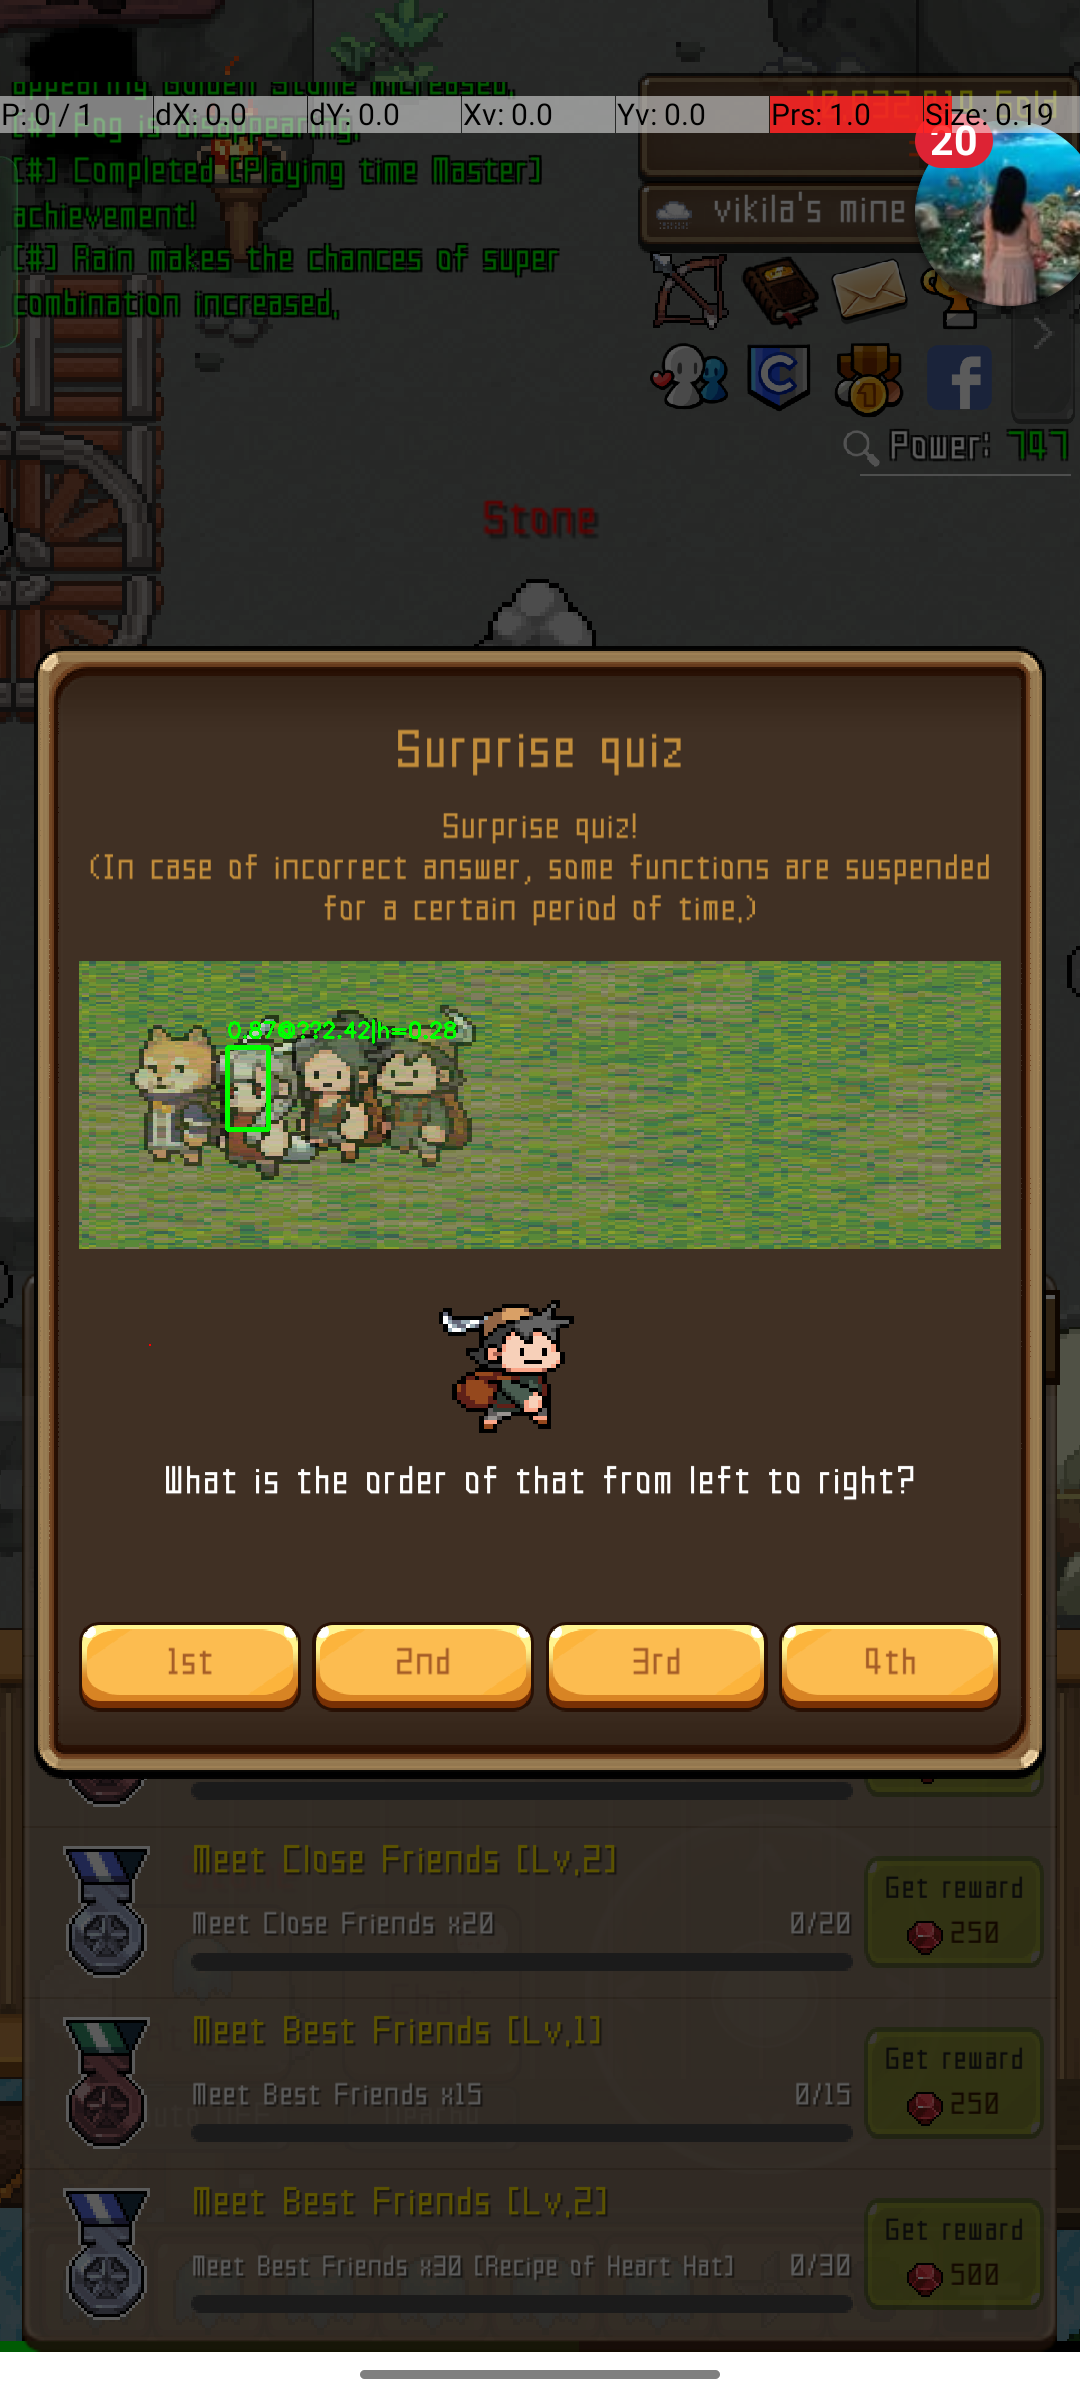
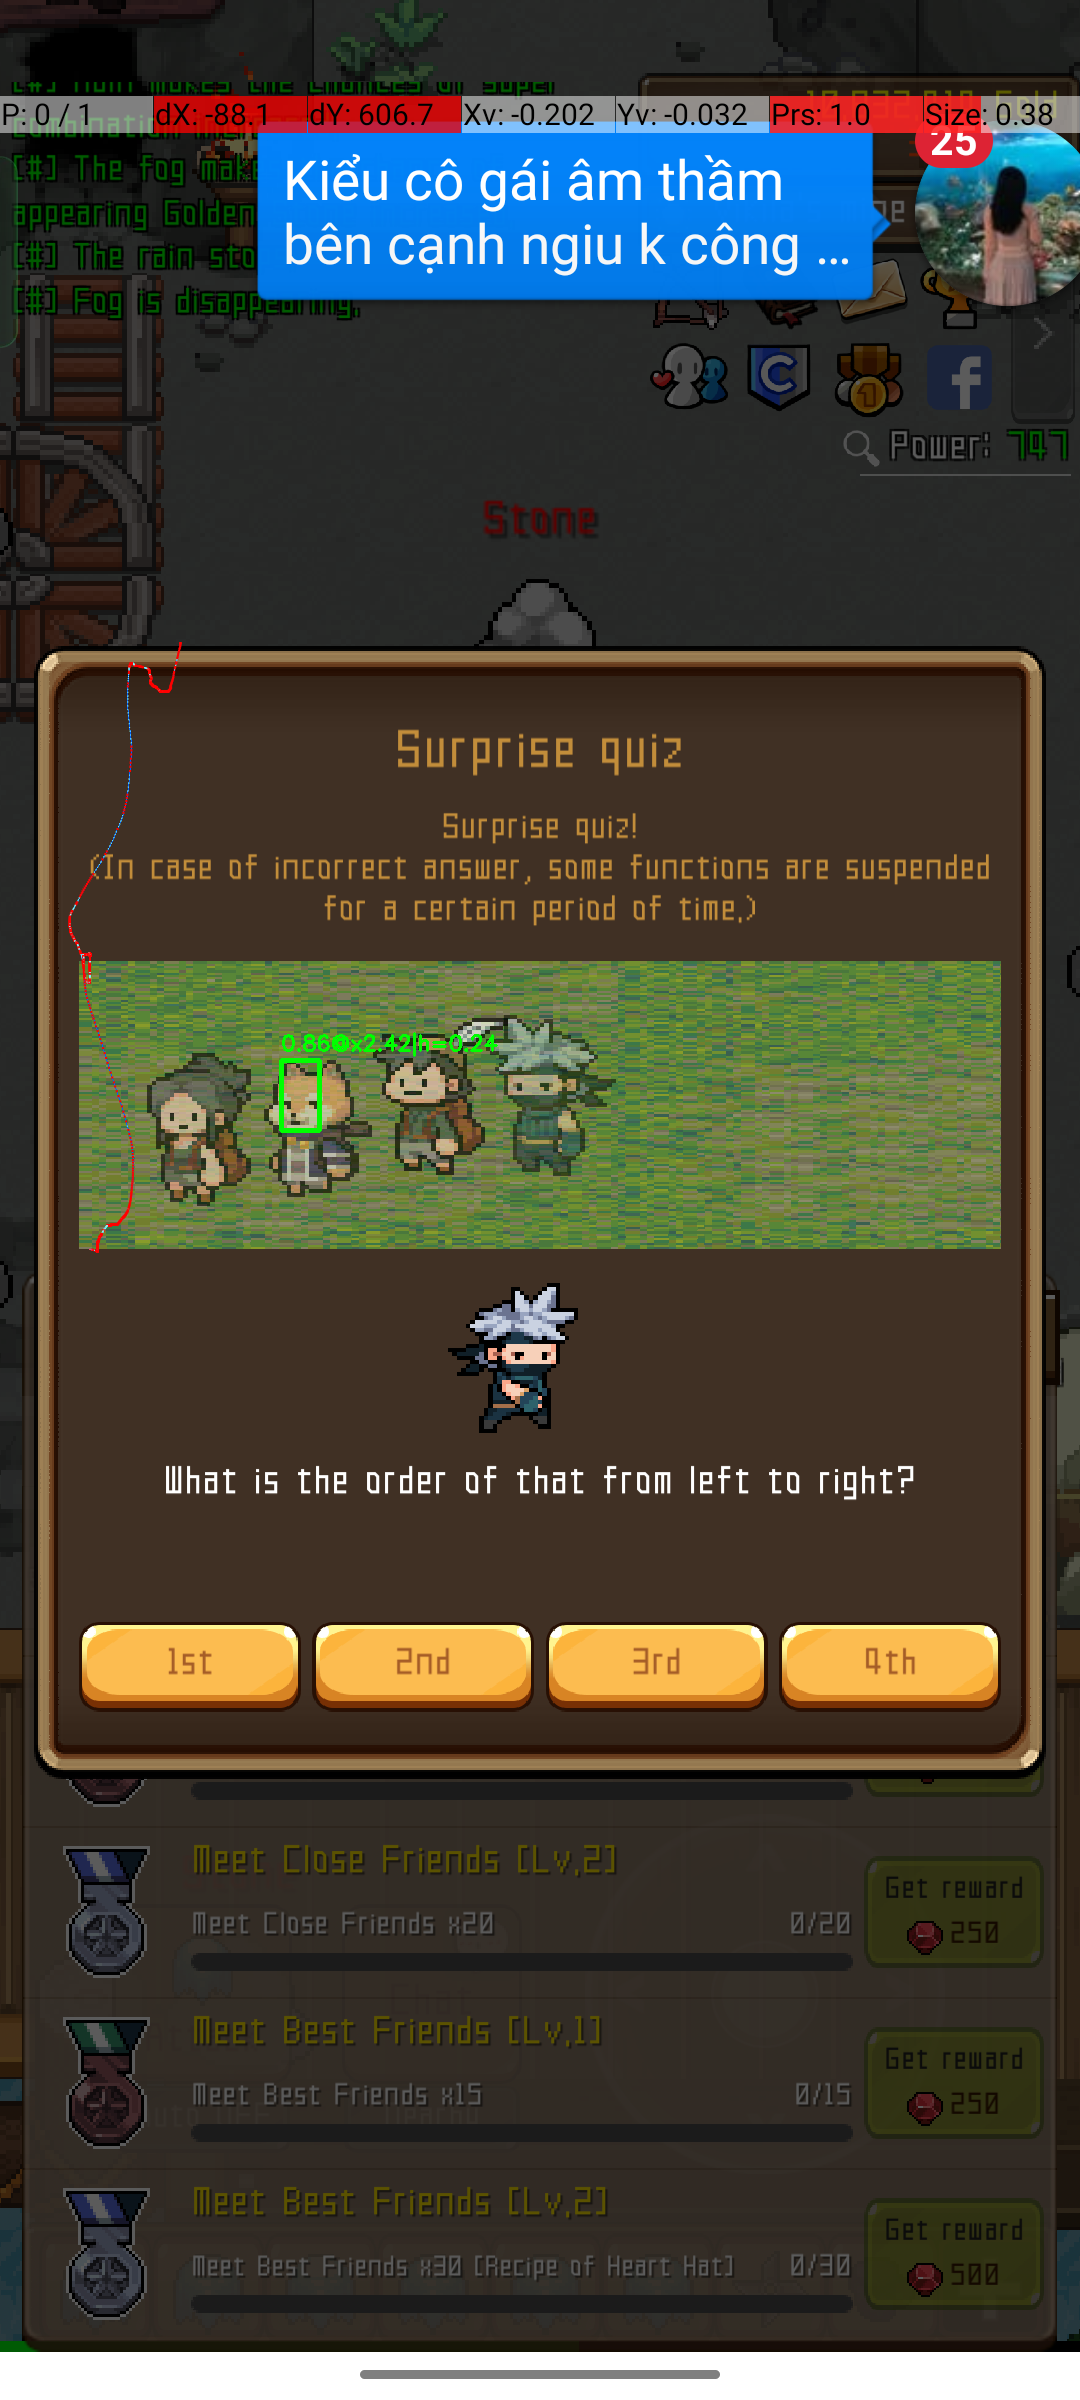
logical separation

diff --git a/test03.py b/test03.py
@@ -1,100 +1,196 @@
-#!/usr/bin/env python3
-import subprocess, sys
-import numpy as np, cv2
+import cv2  # Thư viện OpenCV dùng để xử lý ảnh
+import numpy as np  # Thư viện numpy hỗ trợ thao tác mảng
+import time  # Thư viện đo thời gian
+from typing import Tuple, Dict, Any, Optional  # Khai báo kiểu dữ liệu
+from pprint import pprint  # Hiển thị dict đẹp mắt
 
-# ==== CẤU HÌNH TẠI ĐÂY ====
-TEMPLATE_PATH   = "./growstone/quiz/faces/slim-wrgirl1.png"    # file template đã crop
-DEVICE_ID       = None           # hoặc None nếu chỉ có 1 thiết bị
-ROI             = (80, 0, 1000, 2000) # x0, y0, width, height
-THRESHOLD       = 0.5         # ngưỡng matchTemplate (tăng lên)
-HIST_THRESHOLD  = 0.00           # ngưỡng correlation của histogram
-SCALE_MIN       = 1
-SCALE_MAX       = 10
-SCALE_STEPS     = 20
-OUTPUT_PATH     = "debug.png"
-# ============================
 
-def adb_screencap(device_id=None):
-    cmd = ["adb"] + (["-s", device_id] if device_id else []) + \
-          ["exec-out", "screencap", "-p"]
-    raw = subprocess.check_output(cmd)
-    arr = np.frombuffer(raw, np.uint8)
-    img = cv2.imdecode(arr, cv2.IMREAD_COLOR)
-    if img is None:
-        print("❌ Lỗi decode screenshot", file=sys.stderr)
-        sys.exit(1)
-    return img
-
-def multi_scale_template_match(gray_roi, tpl):
-    h0, w0 = tpl.shape
-    best = {"val":-1, "loc":None, "wh":(w0,h0), "scale":1.0}
-    for s in np.linspace(SCALE_MIN, SCALE_MAX, SCALE_STEPS):
-        w, h = int(w0*s), int(h0*s)
+def multi_scale_template_match(
+    gray_roi: np.ndarray,
+    tpl: np.ndarray,
+    scale_min: float = 1.0,
+    scale_max: float = 10.0,
+    scale_steps: int = 20
+) -> Dict[str, Any]:
+    """
+    Thực hiện tìm template ở nhiều tỉ lệ (scale) trong vùng ảnh xám (gray_roi).
+    Trả về dict chứa thông tin kết quả tốt nhất: điểm số, vị trí, kích thước, scale.
+    """
+    h0, w0 = tpl.shape  # Kích thước gốc của template: chiều cao và rộng
+    # Khởi tạo kết quả tốt nhất ban đầu
+    best = {"val": -1.0, "loc": None, "wh": (w0, h0), "scale": 1.0}
+    # Duyệt qua các giá trị scale từ nhỏ đến lớn
+    for s in np.linspace(scale_min, scale_max, scale_steps):
+        w, h = int(w0 * s), int(h0 * s)  # Tính kích thước template sau khi scale
+        # Bỏ qua template quá nhỏ hoặc quá lớn so với ROI
         if w < 10 or h < 10 or w > gray_roi.shape[1] or h > gray_roi.shape[0]:
             continue
+        # Thay đổi kích thước template theo scale hiện tại
         tpl_rs = cv2.resize(tpl, (w, h), interpolation=cv2.INTER_AREA)
+        # So khớp template: trả về ma trận kết quả
         res = cv2.matchTemplate(gray_roi, tpl_rs, cv2.TM_CCOEFF_NORMED)
+        # Lấy giá trị max và vị trí tương ứng
         _, mx, _, pt = cv2.minMaxLoc(res)
+        # Cập nhật kết quả tốt nhất nếu điểm cao hơn
         if mx > best["val"]:
-            best.update(val=mx, loc=pt, wh=(w,h), scale=s)
-    return best
+            best.update(val=mx, loc=pt, wh=(w, h), scale=s)
+    return best  # Trả về kết quả tốt nhất
 
-def main():
-    # 1) Load template
-    tpl = cv2.imread(TEMPLATE_PATH, cv2.IMREAD_GRAYSCALE)
+
+def detect_template(
+    image: np.ndarray,
+    template_path: str,
+    roi: Tuple[int, int, int, int],  # (x0, y0, width, height)
+    threshold: float = 0.5,
+    hist_threshold: float = 0.0,
+    scale_min: float = 1.0,
+    scale_max: float = 10.0,
+    scale_steps: int = 20,
+    annotate: bool = True
+) -> Tuple[Optional[np.ndarray], Dict[str, Any]]:
+    """
+    Phát hiện template trong ảnh nhập vào (image) tại vùng ROI.
+    Nếu annotate=True, trả về ảnh có vẽ khung; ngược lại chỉ trả về info.
+    """
+    # Đọc template dưới dạng ảnh xám
+    tpl = cv2.imread(template_path, cv2.IMREAD_GRAYSCALE)
     if tpl is None:
-        print(f"❌ Không tìm thấy template: {TEMPLATE_PATH}", file=sys.stderr)
-        sys.exit(1)
+        # Không tìm thấy file template
+        raise ValueError(f"Không tìm thấy template: {template_path}")
 
-    # 2) Screenshot
-    full = adb_screencap(DEVICE_ID)
-    gray_full = cv2.cvtColor(full, cv2.COLOR_BGR2GRAY)
+    # Giải nén tọa độ ROI
+    x0, y0, w, h = roi
+    # Chuyển ảnh gốc sang xám để match
+    gray_full = cv2.cvtColor(image, cv2.COLOR_BGR2GRAY)
+    # Cắt vùng ROI từ ảnh xám
+    gray_roi = gray_full[y0:y0+h, x0:x0+w]
 
-    # 3) Crop ROI
-    x0, y0, w, h = ROI
-    x1, y1 = x0 + w, y0 + h
-    gray_roi = gray_full[y0:y1, x0:x1]
+    # Đo thời gian thực thi tìm kiếm
+    start_time = time.time()
+    best = multi_scale_template_match(
+        gray_roi, tpl, scale_min, scale_max, scale_steps
+    )
+    match_time = time.time() - start_time  # Thời gian hoàn thành
 
-    # 4) Multi-scale match
-    best = multi_scale_template_match(gray_roi, tpl)
-    if best["val"] < THRESHOLD:
-        print(f"⚠ Không tìm thấy match ≥ {THRESHOLD} (max={best['val']:.2f})")
-        sys.exit(1)
+    # Kiểm tra ngưỡng điểm match
+    if best["val"] < threshold:
+        raise ValueError(
+            f"Không có kết quả match đủ {threshold}, điểm cao nhất={best['val']:.2f}"
+        )
 
-    # 5) So sánh histogram để loại false positive
-    bx, by = best["loc"]
+    # Lấy vị trí và kích thước của vùng match
+    bx, by = best["loc"]  # Tọa độ top-left trong ROI
     bw, bh = best["wh"]
+    # Cắt miếng ảnh match để kiểm tra histogram
     patch = gray_roi[by:by+bh, bx:bx+bw]
-
-    # tính histogram 256 bins
-    hist_tpl   = cv2.calcHist([tpl],   [0], None, [256], [0,256])
-    hist_patch = cv2.calcHist([patch], [0], None, [256], [0,256])
-    cv2.normalize(hist_tpl, hist_tpl)
+    # Tính histogram của template và patch
+    hist_tpl = cv2.calcHist([tpl], [0], None, [256], [0, 256])
+    hist_patch = cv2.calcHist([patch], [0], None, [256], [0, 256])
+    cv2.normalize(hist_tpl, hist_tpl)  # Chuẩn hóa histogram
     cv2.normalize(hist_patch, hist_patch)
     hist_corr = cv2.compareHist(hist_tpl, hist_patch, cv2.HISTCMP_CORREL)
+    # Kiểm tra ngưỡng histogram
+    if hist_corr < hist_threshold:
+        raise ValueError(
+            f"Histogram không đủ tin cậy: {hist_corr:.2f} < {hist_threshold}"
+        )
 
-    if hist_corr < HIST_THRESHOLD:
-        print(f"⚠ Mismatch histogram (corr={hist_corr:.2f} < {HIST_THRESHOLD})")
-        sys.exit(1)
+    # Chuẩn bị dict kết quả
+    info = {
+        "roi": roi,
+        "top_left": (x0 + bx, y0 + by),  # Chuyển sang toạ độ ảnh gốc
+        "bottom_right": (x0 + bx + bw, y0 + by + bh),
+        "match_score": best["val"],
+        "hist_corr": hist_corr,
+        "scale": best["scale"],
+        "template_size": best["wh"],
+        "match_time": match_time,
+    }
 
-    # 6) Tính tọa độ global và vẽ khung
-    top_left     = (x0 + bx, y0 + by)
-    bottom_right = (top_left[0] + bw, top_left[1] + bh)
-    cv2.rectangle(full, top_left, bottom_right, (0,255,0), 3)
-    note = f"{best['val']:.2f}@×{best['scale']:.2f}|h={hist_corr:.2f}"
-    cv2.putText(full, note, (top_left[0], top_left[1] - 10),
-                cv2.FONT_HERSHEY_SIMPLEX, 0.7, (0,255,0), 2)
+    # Nếu cần annotate, vẽ khung và ghi thông tin
+    if annotate:
+        annotated = image.copy()
+        cv2.rectangle(
+            annotated,
+            info["top_left"],
+            info["bottom_right"],
+            (0, 255, 0),
+            3
+        )
+        note = f"{best['val']:.2f}@x{best['scale']:.2f}|h={hist_corr:.2f}"
+        cv2.putText(
+            annotated,
+            note,
+            (info["top_left"][0], info["top_left"][1] - 10),
+            cv2.FONT_HERSHEY_SIMPLEX,
+            0.7,
+            (0, 255, 0),
+            2,
+        )
+        return annotated, info  # Trả về ảnh đã annotate và kết quả
 
-    # 7) Lưu ảnh và in thông tin
-    cv2.imwrite(OUTPUT_PATH, full)
-    print("✅ Đã lưu debug image →", OUTPUT_PATH)
-    print("   ROI                  =", ROI)
-    print("   Match top-left       =", top_left)
-    print("   Match bottom-right   =", bottom_right)
-    print("   Template size        =", best["wh"])
-    print("   matchTemplate score  =", best["val"])
-    print("   histogram corr       =", hist_corr)
-    print("   Used scale           =", best["scale"])
+    # Nếu không annotate, trả về None cho ảnh
+    return None, info
+
 
 if __name__ == "__main__":
-    main()
+    import subprocess
+    import sys
+    start_time = time.time()  # Bắt đầu đo tổng thời gian
+
+    # Cấu hình tham số
+    SAVE_IMAGE = False  # Có lưu ảnh annotate không
+    TEMPLATE_PATH = "./growstone/quiz/faces/slim-doge1.png"
+    DEVICE_ID = None  # ID thiết bị ADB nếu có nhiều thiết bị
+    ROI = (80, 900, 1000, 400)  # Vùng quan tâm (x0, y0, w, h)
+    THRESHOLD = 0.45  # Ngưỡng matchTemplate
+    HIST_THRESHOLD = 0.0  # Ngưỡng histogram correlation
+    SCALE_MIN = 1.0  # Hệ số scale nhỏ nhất
+    SCALE_MAX = 10.0  # Hệ số scale lớn nhất
+    SCALE_STEPS = 20  # Số bước scale
+    OUTPUT_PATH = "debug.png"  # Đường dẫn lưu ảnh
+
+    def adb_screencap(device_id=None):
+        # Chụp màn hình qua ADB và giải mã thành ảnh OpenCV
+        cmd = ["adb"] + (
+            ["-s", device_id] if device_id else []
+        ) + ["exec-out", "screencap", "-p"]
+        raw = subprocess.check_output(cmd)
+        arr = np.frombuffer(raw, np.uint8)
+        img = cv2.imdecode(arr, cv2.IMREAD_COLOR)
+        if img is None:
+            print("Lỗi giải mã ảnh ADB", file=sys.stderr)
+            sys.exit(1)
+        return img
+
+    full_img = adb_screencap(DEVICE_ID)  # Chụp screenshot
+    try:
+        annotated, result = detect_template(
+            full_img,
+            TEMPLATE_PATH,
+            ROI,
+            threshold=THRESHOLD,
+            hist_threshold=HIST_THRESHOLD,
+            scale_min=SCALE_MIN,
+            scale_max=SCALE_MAX,
+            scale_steps=SCALE_STEPS,
+            annotate=SAVE_IMAGE,
+        )
+    except ValueError as e:
+        # Xử lý lỗi không tìm được match
+        print(f"Phát hiện thất bại: {e}", file=sys.stderr)
+        sys.exit(1)
+
+    # In kết quả
+    print("Kết quả:")
+    pprint(result)
+
+    # Lưu ảnh nếu cần
+    if SAVE_IMAGE and annotated is not None:
+        cv2.imwrite(OUTPUT_PATH, annotated)
+        print(f"✅ Đã lưu ảnh → {OUTPUT_PATH}")
+    else:
+        print("Bỏ qua lưu ảnh (SAVE_IMAGE=False)")
+
+    # In tổng thời gian
+    print(f"Tổng thời gian: {time.time() - start_time:.2f} giây")
